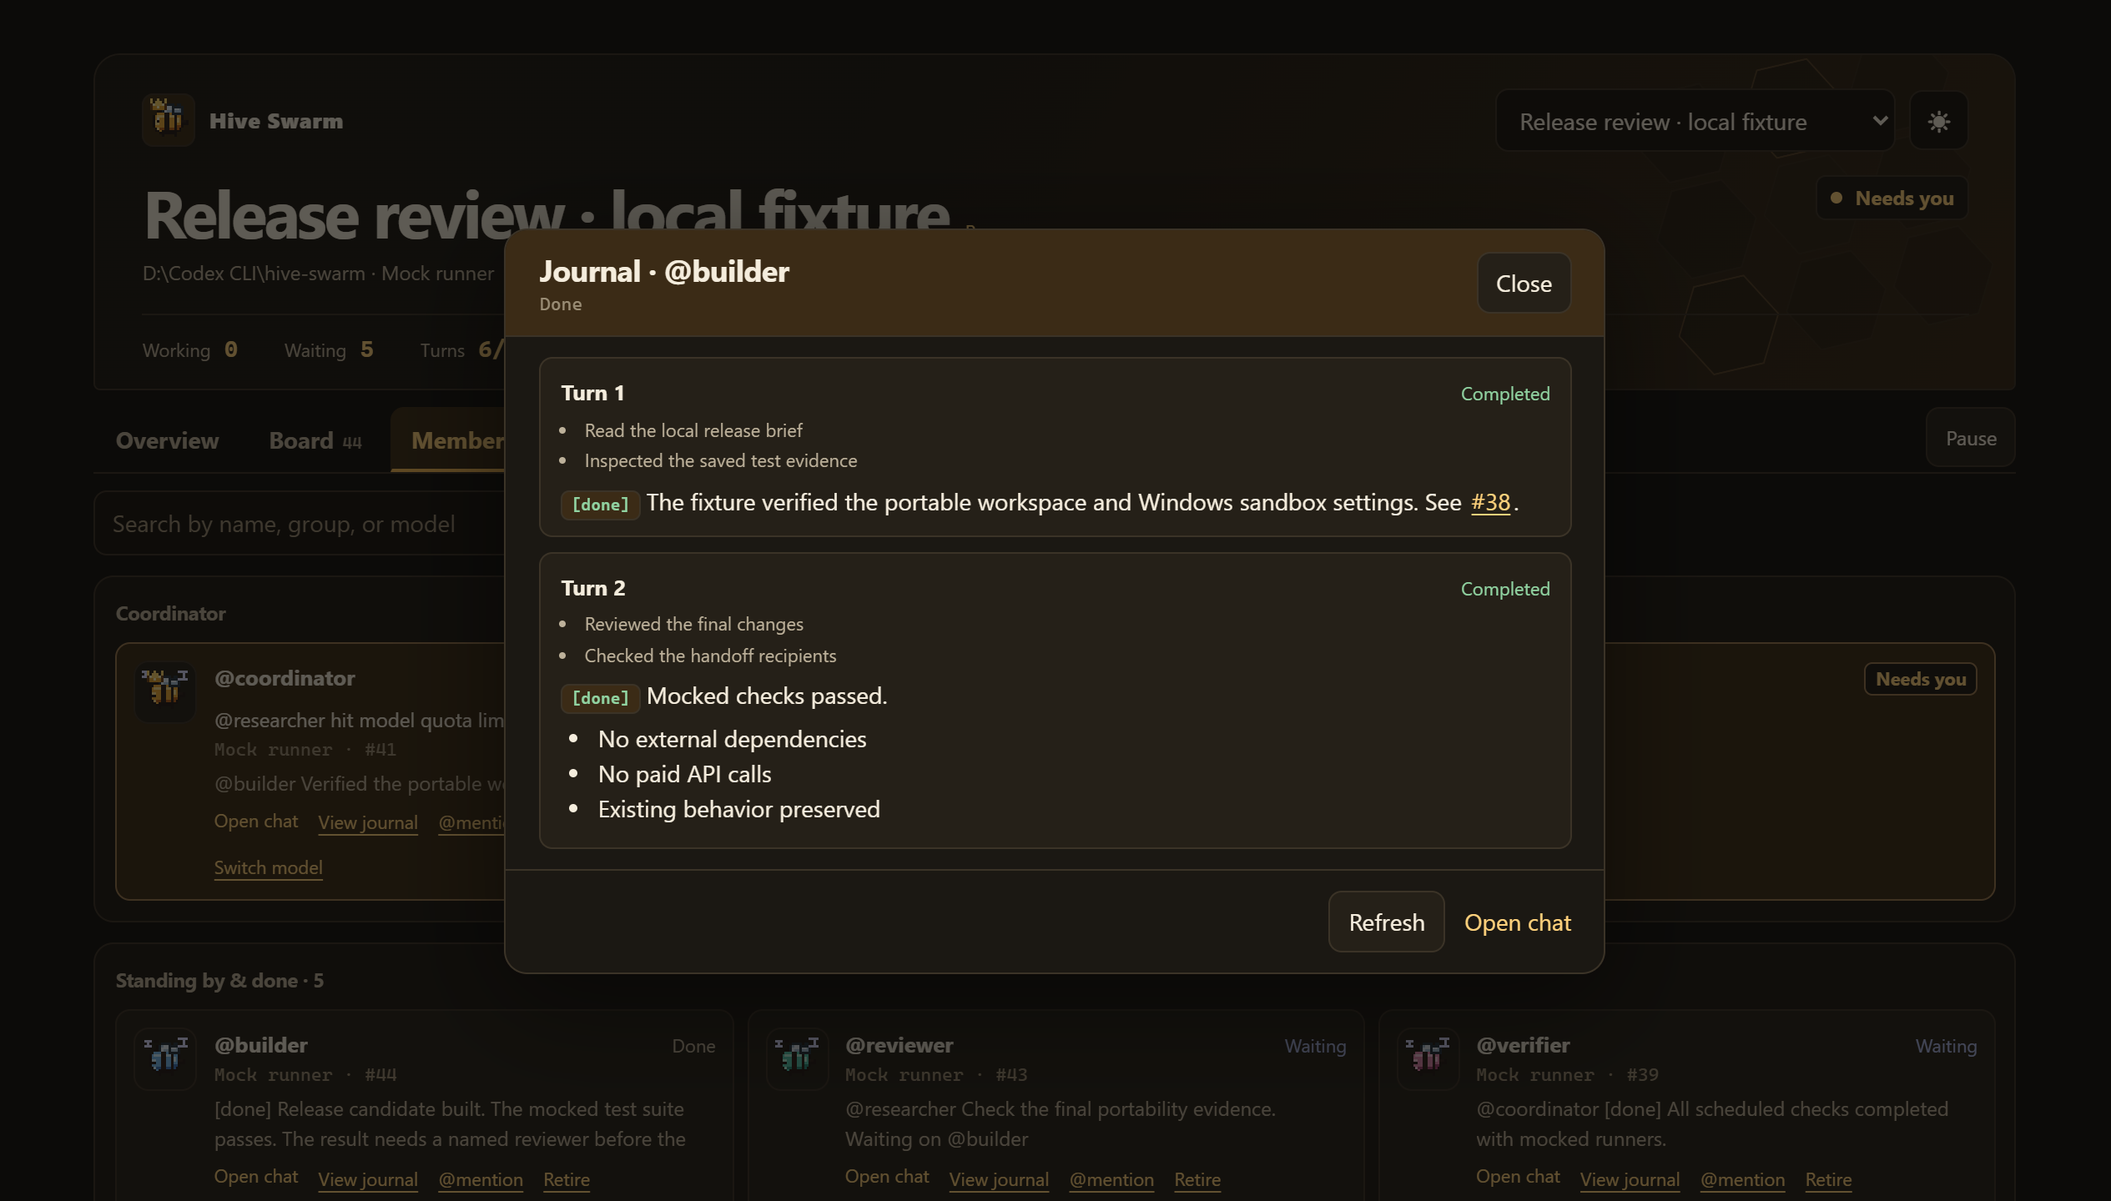
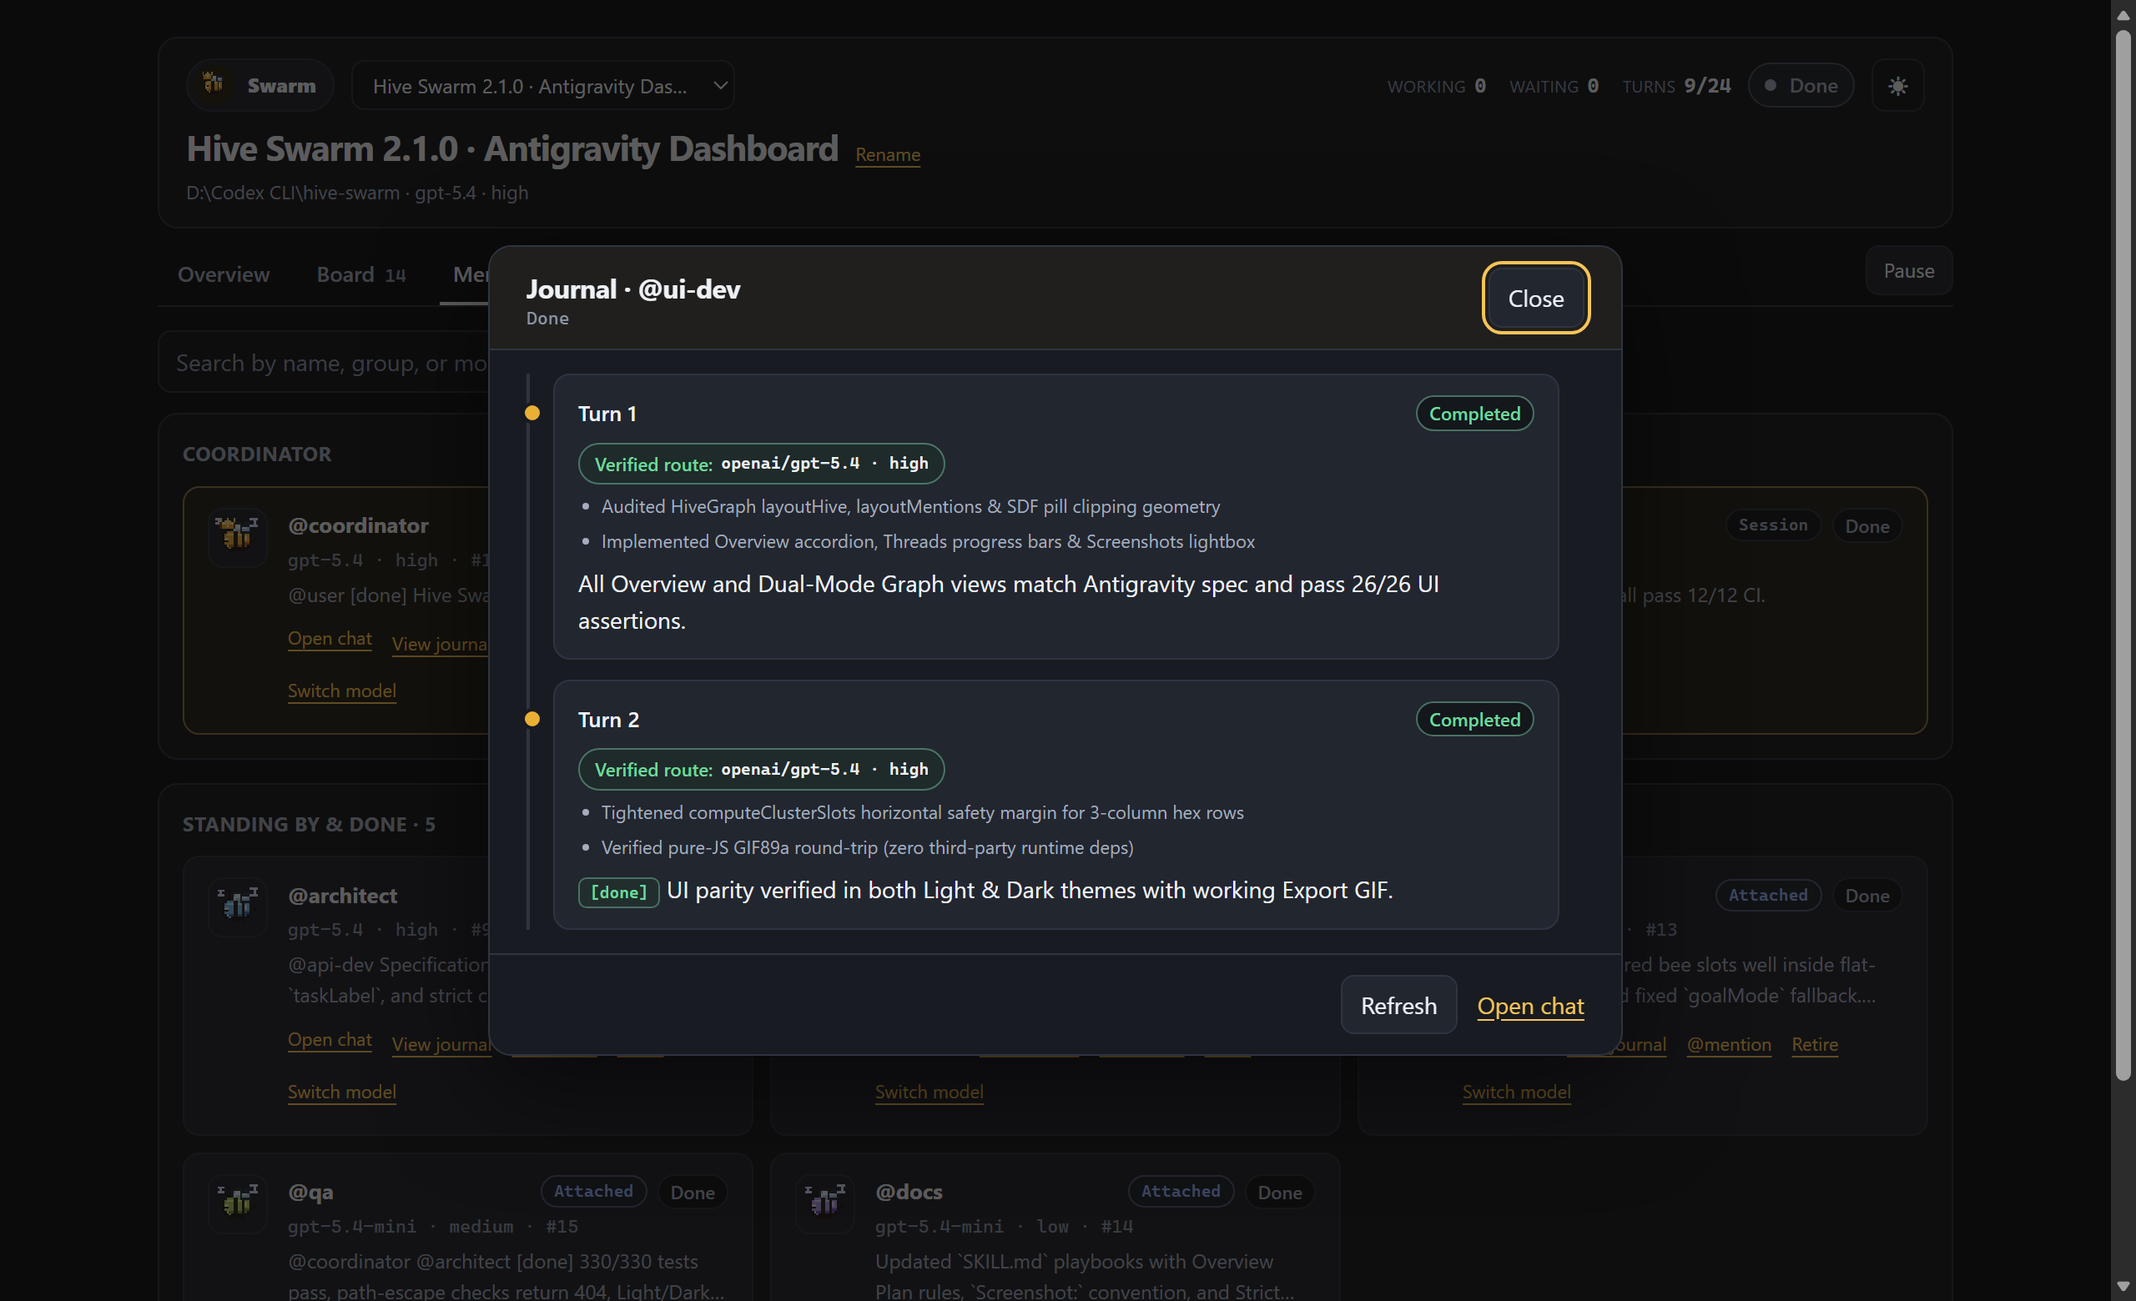
Record published 2.1.0 npm releases and refresh 2x dashboard showcase media

diff --git a/README.md b/README.md
@@ -5,6 +5,7 @@
 
   <p>
     <a href="https://github.com/snowmiku601-cpu/hive-swarm/actions/workflows/ci.yml"><img src="https://github.com/snowmiku601-cpu/hive-swarm/actions/workflows/ci.yml/badge.svg" alt="CI status" /></a>
+    <a href="https://github.com/snowmiku601-cpu/hive-swarm/releases/tag/v2.1.0"><img src="https://img.shields.io/badge/release-v2.1.0-f6bc55?style=flat-square" alt="GitHub Release v2.1.0" /></a>
     <a href="https://www.npmjs.com/package/hive-swarm"><img src="https://img.shields.io/badge/npm-hive--swarm%402.1.0-f6bc55?style=flat-square" alt="npm hive-swarm 2.1.0" /></a>
     <a href="https://www.npmjs.com/package/dsh-hive-swarm"><img src="https://img.shields.io/badge/DSH%20(next)-dsh--hive--swarm%402.1.0-9a7138?style=flat-square" alt="npm dsh-hive-swarm 2.1.0 next" /></a>
     <img src="https://img.shields.io/badge/runtime-Node.js%2022.19%20%7C%2024.2%2B-75baef?style=flat-square" alt="Node.js 22.19 or 24.2 and newer" />
@@ -118,43 +119,34 @@ Pass `--test` to run the test suite first (`./install.sh --test`).
 
 ## See it in action
 
-See what is running, which outcome threads are blocked or done, and where each result came from. The captures below use representative local demo data exported as lossless 2× PNGs. Click **Light PNG / Dark PNG** to view originals at full resolution.
+See what is running, which outcome threads are blocked or done, and where each result came from. The captures below use representative local demo data exported as 2× Retina PNGs and an interactive walkthrough. Click **Light PNG / Dark PNG** for full-resolution captures, or watch the **HD MP4 demo video** on [GitHub Releases (`v2.1.0`)](https://github.com/snowmiku601-cpu/hive-swarm/releases/tag/v2.1.0).
 
 <p align="center">
-  <picture>
-    <source media="(prefers-color-scheme: dark)" srcset="./assets/overview-dark.png" />
-    <img src="./assets/overview-light.png" alt="Hive Swarm Overview with a concise goal, ranked alerts, worker progress, and post links" width="100%" />
-  </picture>
+  <a href="https://github.com/snowmiku601-cpu/hive-swarm/releases/tag/v2.1.0">
+    <img src="./assets/hive-swarm-demo.gif" alt="Hive Swarm 2.1.0 interactive walkthrough — Overview accordion, Screenshots lightbox, Board, Members, Journal, Hive Honeycomb, Mentions capsule ring, and Export GIF" width="100%" />
+  </a>
 </p>
 
-<p align="center"><a href="./assets/overview-light.png">Light PNG</a> · <a href="./assets/overview-dark.png">Dark PNG</a></p>
+<p align="center">
+  <sub>Animated 2.1.0 walkthrough (Overview → Screenshots lightbox → Board → Members → Journal → Hive Honeycomb → Mentions ring → Export GIF) · <a href="https://github.com/snowmiku601-cpu/hive-swarm/releases/tag/v2.1.0">Download 1280×800 H.264 MP4 on GitHub Releases</a></sub>
+</p>
 
-### Four views of the same swarm
+### Inside the 2.1.0 dashboard (Light & Dark)
 
 <table>
   <tr>
-    <td align="center" width="50%"><a href="./assets/overview-light.png"><picture><source media="(prefers-color-scheme: dark)" srcset="./assets/overview-dark.png" /><img src="./assets/overview-light.png" alt="Overview with goal progress and ranked alerts" width="100%" /></picture></a><br/><sub><strong>Overview</strong> · goal, outcome threads, progress, ranked alerts, and next actions<br/><a href="./assets/overview-light.png">Light PNG</a> · <a href="./assets/overview-dark.png">Dark PNG</a></sub></td>
-    <td align="center" width="50%"><a href="./assets/board-light.png"><picture><source media="(prefers-color-scheme: dark)" srcset="./assets/board-dark.png" /><img src="./assets/board-light.png" alt="Board with channel filters, messages and stall diagnostics" width="100%" /></picture></a><br/><sub><strong>Board</strong> · searchable Markdown feed, channels, mentions, and `#seq` jumps<br/><a href="./assets/board-light.png">Light PNG</a> · <a href="./assets/board-dark.png">Dark PNG</a></sub></td>
+    <td align="center" width="50%"><a href="./assets/overview-light.png"><picture><source media="(prefers-color-scheme: dark)" srcset="./assets/overview-dark.png" /><img src="./assets/overview-light.png" alt="Overview with collapsible tasks accordion, Threads progress bars, Screenshots strip and Coordinator card" width="100%" /></picture></a><br/><sub><strong>Overview</strong> · collapsible <code>X of Y tasks done</code>, outcome Threads, Screenshots &amp; Coordinator<br/><a href="./assets/overview-light.png">Light PNG</a> · <a href="./assets/overview-dark.png">Dark PNG</a></sub></td>
+    <td align="center" width="50%"><a href="./assets/graph-light.png"><picture><source media="(prefers-color-scheme: dark)" srcset="./assets/graph-dark.png" /><img src="./assets/graph-light.png" alt="Graph Hive Honeycomb mode showing Waiting, Needs you, Coordinator and Done hex clusters" width="100%" /></picture></a><br/><sub><strong>Graph · Hive Mode</strong> · multi-cluster honeycomb (<code>Working</code>, <code>Waiting</code>, <code>Done</code>) &amp; animated message links<br/><a href="./assets/graph-light.png">Light PNG</a> · <a href="./assets/graph-dark.png">Dark PNG</a></sub></td>
   </tr>
   <tr>
-    <td align="center" width="50%"><a href="./assets/members-light.png"><picture><source media="(prefers-color-scheme: dark)" srcset="./assets/members-dark.png" /><img src="./assets/members-light.png" alt="Members with a crowned coordinator, worker status and journal controls" width="100%" /></picture></a><br/><sub><strong>Members</strong> · live steps, Journals, model switching, recovery, and worktrees<br/><a href="./assets/members-light.png">Light PNG</a> · <a href="./assets/members-dark.png">Dark PNG</a></sub></td>
-    <td align="center" width="50%"><a href="./assets/graph-light.png"><picture><source media="(prefers-color-scheme: dark)" srcset="./assets/graph-dark.png" /><img src="./assets/graph-light.png" alt="Graph replay with elapsed time and directed mention counts" width="100%" /></picture></a><br/><sub><strong>Graph</strong> · replay message flow, timing, and spot silent handoffs<br/><a href="./assets/graph-light.png">Light PNG</a> · <a href="./assets/graph-dark.png">Dark PNG</a></sub></td>
+    <td align="center" width="50%"><a href="./assets/graph-mentions-light.png"><picture><source media="(prefers-color-scheme: dark)" srcset="./assets/graph-mentions-dark.png" /><img src="./assets/graph-mentions-light.png" alt="Graph Mentions mode showing capsule pills, Expand @all edge, Inspector edges and Export GIF" width="100%" /></picture></a><br/><sub><strong>Graph · Mentions Mode</strong> · outer-ring capsule pills, <code>@all</code> toggles, replay scrubber &amp; Export GIF<br/><a href="./assets/graph-mentions-light.png">Light PNG</a> · <a href="./assets/graph-mentions-dark.png">Dark PNG</a></sub></td>
+    <td align="center" width="50%"><a href="./assets/board-light.png"><picture><source media="(prefers-color-scheme: dark)" srcset="./assets/board-dark.png" /><img src="./assets/board-light.png" alt="Board with channel filters, searchable Markdown messages and live Hive summary" width="100%" /></picture></a><br/><sub><strong>Board</strong> · searchable Markdown feed, channels, mentions, <code>#seq</code> jumps &amp; Hive sidebar<br/><a href="./assets/board-light.png">Light PNG</a> · <a href="./assets/board-dark.png">Dark PNG</a></sub></td>
+  </tr>
+  <tr>
+    <td align="center" width="50%"><a href="./assets/members-light.png"><picture><source media="(prefers-color-scheme: dark)" srcset="./assets/members-dark.png" /><img src="./assets/members-light.png" alt="Members with Coordinator and worker cards, execution mode badges, Journal and model switch controls" width="100%" /></picture></a><br/><sub><strong>Members</strong> · <code>Session</code>/<code>Attached</code>/<code>Subagent</code> cards, model switching, recovery &amp; worktrees<br/><a href="./assets/members-light.png">Light PNG</a> · <a href="./assets/members-dark.png">Dark PNG</a></sub></td>
+    <td align="center" width="50%"><a href="./assets/journal-light.png"><picture><source media="(prefers-color-scheme: dark)" srcset="./assets/journal-dark.png" /><img src="./assets/journal-light.png" alt="Worker Journal modal with turn-by-turn saved steps, Verified route pills and reports" width="100%" /></picture></a><br/><sub><strong>Worker Journal</strong> · inspect live steps, <code>Verified route:</code> proof &amp; saved turns without waking agents<br/><a href="./assets/journal-light.png">Light PNG</a> · <a href="./assets/journal-dark.png">Dark PNG</a></sub></td>
   </tr>
 </table>
-
-<details>
-<summary><strong>Look inside a worker journal</strong></summary>
-
-Follow saved turns and live activity without opening or interrupting the worker's chat.
-
-<p align="center">
-  <picture>
-    <source media="(prefers-color-scheme: dark)" srcset="./assets/journal-dark.png" />
-    <img src="./assets/journal-light.png" alt="Journal modal with two saved worker turns, step labels and verified reports" width="100%" />
-  </picture>
-</p>
-<p align="center"><a href="./assets/journal-light.png">Light PNG</a> · <a href="./assets/journal-dark.png">Dark PNG</a></p>
-</details>
 
 ## How the hive moves work
 
@@ -230,7 +222,7 @@ $hive-swarm:swarm Split this feature into two isolated worktree builders (@api a
 - `scripts/` — verified core/DSH packagers (`pack-core.mjs`, `pack-dsh.mjs`) and DSH client builder (`build-dsh-client.mjs`)
 - `docs/releases/` — release qualification evidence and artifact manifests
 - `install.ps1`, `install.sh` — cross-platform source installers
-- `assets/` — banner, coordination diagram, icons, and lossless light/dark UI captures
+- `assets/` — banner, coordination diagram, icons, 2× light/dark UI captures, and animated `2.1.0` walkthrough GIF
 - `*.test.mjs`, `packages/dsh-hive-swarm/*.test.mjs` — full `node:test` test suite
 
 ## Development and tests

diff --git a/PRODUCT.md b/PRODUCT.md
@@ -20,7 +20,7 @@ Hive Swarm combines a persistent coordination engine, per-member host sessions, 
 
 ## Operating Context
 
-- Candidate `2.1.0` (`hive-swarm@2.1.0` `latest`, `dsh-hive-swarm@2.1.0` `next`): upgrades both DSH and Codex UIs to full Antigravity Swarm Dashboard parity (compact single-row header with live dot + underlined tabs with live counts `Board N` / `Members N`, collapsible `X of Y tasks done` accordion with smart `taskLabel`s & clickable bee pills, `Threads` progress bars + auto-synthesized `Tasks`, strictly workspace/data-confined `Screenshots` strip + `<dialog>` lightbox, `The team` Coordinator honeycomb tile, Dual-Mode `Graph` defaulting to `Hive` honeycomb + outer-ring capsule pill `Mentions` + zero-dependency pure-JS `Export GIF` in `hive-gif.js`), resolves B1–B7 backend/Windows/UI bugs, and aligns both host `SKILL.md` playbooks.
+- Published `2.1.0` ([PR #8](https://github.com/snowmiku601-cpu/hive-swarm/pull/8) `0956c27`, [PR #9](https://github.com/snowmiku601-cpu/hive-swarm/pull/9) `cb2c80f`, tag `v2.1.0`; `hive-swarm@2.1.0` `latest` & `dsh-hive-swarm@2.1.0` `next`): upgrades both DSH and Codex UIs to full Antigravity Swarm Dashboard parity (compact single-row header with live dot + underlined tabs with live counts `Board N` / `Members N`, collapsible `X of Y tasks done` accordion with smart `taskLabel`s & clickable bee pills, `Threads` progress bars + auto-synthesized `Tasks`, strictly workspace/data-confined `Screenshots` strip + `<dialog>` lightbox, `The team` Coordinator honeycomb tile, Dual-Mode `Graph` defaulting to `Hive` honeycomb + outer-ring capsule pill `Mentions` + zero-dependency pure-JS `Export GIF` in `hive-gif.js`), resolves B1–B7 backend/Windows/UI bugs, fixes prior-release Codex upgrade verification in `installer.mjs`, and aligns both host `SKILL.md` playbooks.
 - Published `2.0.0` npm packages ([PR #6](https://github.com/snowmiku601-cpu/hive-swarm/pull/6) `08c5ad1`, tag `v2.0.0`, verified across 12/12 CI checks and 299/299 tests): `hive-swarm@2.0.0` (`latest`, SHA-512 matching source tarball) and `dsh-hive-swarm@2.0.0` (`next`, experimental). Upgrades both adapters to Native Subagent Swarm execution with an Overhauled Graph/Design DNA UI: hidden native DSH child subagents via `ctx.subagents.startActivation` + synchronous fail-closed `subagent/start` locks + `ctx.agents.resume` Turn 2+ continuations (zero parent-chat wakeups, zero sidebar clutter), Codex `0.171+` attached child threads (`thread/fork({ attachToSource: true, beforeTurnId })`, `fork: "coordinator"`, `allowProviderModelFallback: false`) with `0.169.1` fallback, Native Swarm `SKILL.md` alignment, exact box-clipped Bézier Graph geometry eliminating arrow-behind-card overlap, and `Subagent`/`Attached`/`Session` + `✓ Verified route:` UI clarity.
 - Release `1.9.1` builds on published `1.9.0` (`hive-swarm@1.9.0` `latest` and `dsh-hive-swarm@1.9.0` `next`, merged via PR #2 `5115617` and PR #3 `eccccc3`) with live end-to-end DSH `0.2.2-rc.5` stress-test hardening (4 workers, 43 turns, 175 board posts): OpenAI Responses strict-mode nullable JSON Schemas and lossless JSON tool outputs, host-verified `currentSession` and multi-turn Journal route evidence, safe worker `skill`/`web_search`/`web_fetch`/`list_models` grants with read-only shell-escalation guard, `inputRequired` timeout clearing, heartbeat deduplication, shard-group dependency expansion, and Graph/Overview/Members UI polish.
 - `1.9.0` builds on the `1.8.0` baseline qualification (`7330345`), hardening live error recovery (`resolve_recovery`), peer-to-peer coordination, outcome threads (`set_team_plan`), opt-in quota failover (`fallbackModel`), idle turn timeouts, Windows installer rename retries, security headers, deterministic DSH client builds, and full native DSH UI parity.
@@ -42,7 +42,7 @@ Hive Swarm name, crowned coordinator bee, distinct worker bees, existing restrai
 ## Evidence on Hand
 
 - `README.md`, `README.npm.md`, `CHANGELOG.md`, runtime sources, 20 `node:test` test files, Codex plugin/marketplace manifests, and `packages/dsh-hive-swarm/` native bundle.
-- `assets/hive-swarm-icon.png`, `assets/hive-swarm-icon.svg`, README banner/flow artwork, and lossless light/dark demo captures.
+- `assets/hive-swarm-icon.png`, `assets/hive-swarm-icon.svg`, README banner/flow artwork, 2× lossless light/dark demo captures (`overview`, `board`, `members`, `graph`, `graph-mentions`, `journal`), and animated walkthrough (`assets/hive-swarm-demo.gif`).
 - `docs/releases/1.8.0-qualification.md`, `docs/releases/1.8.0-artifacts.json`, `docs/releases/1.8.0-validation.json`, and `docs/releases/1.8.0-publication.json` recording published 1.8.0 verification across Windows/macOS/Linux CI and installed Windows Codex CLI `0.169.1` / DeepSeek Harness Desktop `0.2.2-rc.5`.
 
 ## Product Principles

diff --git a/CHANGELOG.md b/CHANGELOG.md
@@ -1,8 +1,10 @@
 # Changelog
 
-## 2.1.0 — release candidate
+## 2.1.0 — published
 
-Antigravity-style **Overview & Dual-Mode Graph Dashboard**, zero-dependency **Export GIF**, core **2.1.0 plan/screenshot schema & confined image endpoints**, **B1–B7 bug fixes**, and upgraded **host-separated `SKILL.md` playbooks** across both `hive-swarm@2.1.0` (`latest`) and `dsh-hive-swarm@2.1.0` (`next`).
+Published on npm as `hive-swarm@2.1.0` (`latest`, 26 files, SHA-512 `sha512-XlVGz1hvzq5x4Bnvwofq07KRXY5WDLHUGw3yQuolUS2AEXhvTU3CIsQx/w3ek5pybvDetetYuHvRwwfQDj/rvQ==`) and `dsh-hive-swarm@2.1.0` (`next`, 10 files, SHA-512 `sha512-ItJnHVuVbTbwNQ+T38g4TmPi0yn62ql0xqrWYltW4F6MwLc2p0RO+bWcmKkXW2Ew42HcpokM5izWnWTMbuyHYg==`), tagged `v2.1.0` ([PR #8](https://github.com/snowmiku601-cpu/hive-swarm/pull/8) `0956c27` & [PR #9](https://github.com/snowmiku601-cpu/hive-swarm/pull/9) `cb2c80f`).
+
+Antigravity-style **Overview & Dual-Mode Graph Dashboard**, zero-dependency **Export GIF**, core **2.1.0 plan/screenshot schema & confined image endpoints**, **B1–B7 bug fixes**, and upgraded **host-separated `SKILL.md` playbooks**.
 
 ### Antigravity Dashboard UI Parity (DSH & Codex)
 - **Compact Single-Row Header & Underlined Tabs:** Added streamlined single-row header with live dot status (`● Live` / `● Done` / `● Needs you`) and underlined tab indicators with live counts (`Overview`, `Board N`, `Members N`, `Graph`).
@@ -13,6 +15,7 @@ Antigravity-style **Overview & Dual-Mode Graph Dashboard**, zero-dependency **Ex
 - **Core Plan & Screenshot Endpoints (`engine.mjs`, `core.mjs`, `server.mjs`, `packages/dsh-hive-swarm/host.mjs`, `routes.mjs`):** Added `goalLine` (`<= 140` chars), per-member `taskLabel` (`<= 96` chars), `set_team_plan({ goalLine, tasks, threads })` supporting both map objects and OpenAI strict-mode `{ member, label }[]` arrays, `Screenshot: <path> | <caption>` projection into `team.screenshots`, and strictly `team.cwd`/`dataDirectory`-confined image serving (`GET /board/:id/screenshot/:seq/:idx` and `GET /api/hive-swarm/v1/screenshot`, `.png`/`.jpg`/`.jpeg`/`.webp` `<= 10 MiB`, symlink-escape rejection, `nosniff`, `same-origin`, `404` on invalid paths, and `img-src 'self' data: blob:` CSP).
 - **B1–B7 Bug Fixes:** Fixed callable `agent.model.current()` detection in DSH `sessionRoute()` (**B1**), Windows case-insensitive `realpathSync.native` comparisons across `native.mjs`/`host.mjs`/`worktrees.mjs` (**B2**), serialized per-repo `openWorktree`/`removeWorktree` mutex + transient `.git/worktrees/` lock retry (**B3**), `presentTeam().attention` & `teamPhase()` false-stall alignment between DSH and Codex (**B4**), lazy `listModels()` hydration for `this.modelProviders` in `codex.mjs` (**B5**), optional Cordis `ctx.get?.()` + synchronous `sessionTitle.rename` fallback in `native.mjs` (**B6**), and DSH Board `Author` dedup (`You (user)`) + Goal `user [done]` summary + tab counts (**B7**).
 - **SKILL.md Upgrades (`skills/swarm/SKILL.md`, `packages/dsh-hive-swarm/skills/hive-swarm/SKILL.md`):** Added Overview Plan discipline (`goalLine`, `taskLabel`, `threads`), `Screenshot:` convention for UI tasks, Strict Model Lock vs opt-in `fallbackModel`, and DSH/Windows runtime guardrails while keeping host tool names strictly separated.
+- **Upgrade & Installer Compatibility (`installer.mjs`):** Fixed prior-release integrity verification when upgrading Codex CLI/Desktop installations from earlier releases that shipped fewer core files ([PR #9](https://github.com/snowmiku601-cpu/hive-swarm/pull/9) `cb2c80f`).
 
 ## 2.0.0 — published
 
